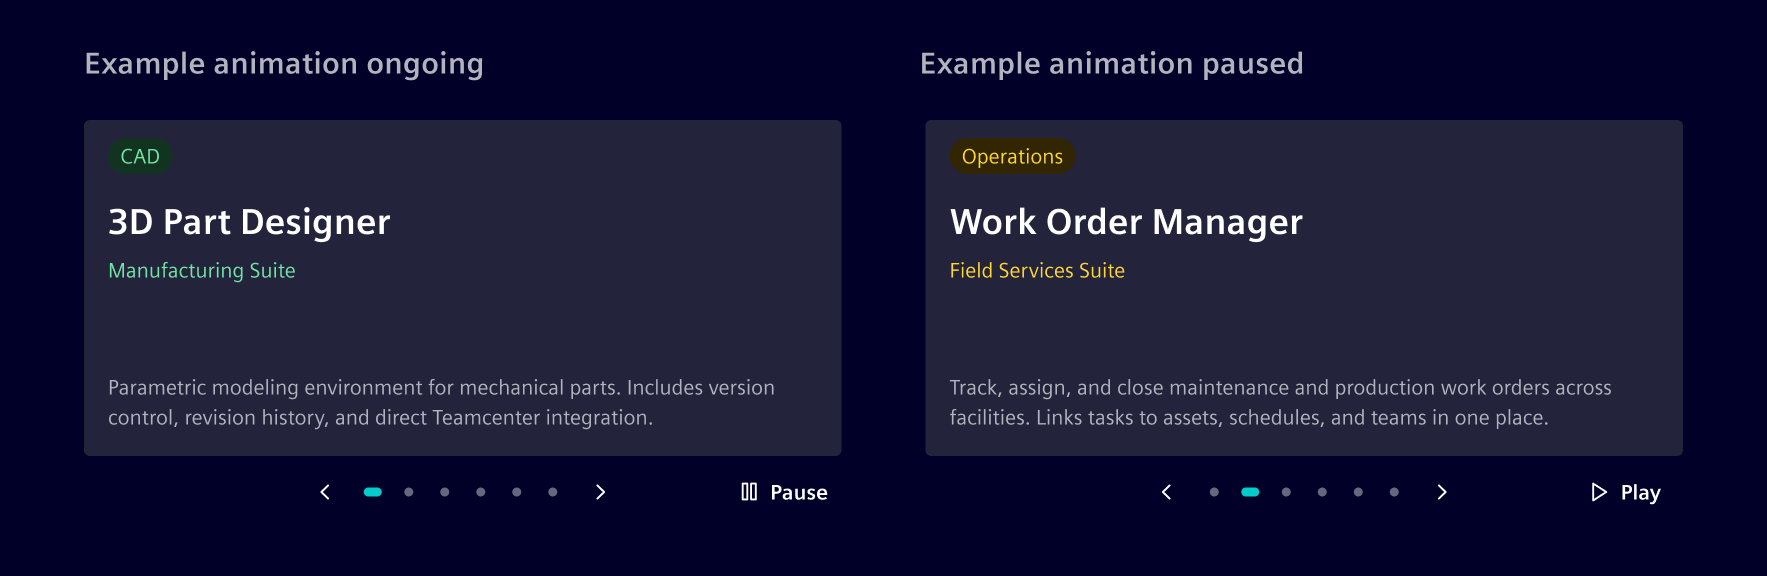
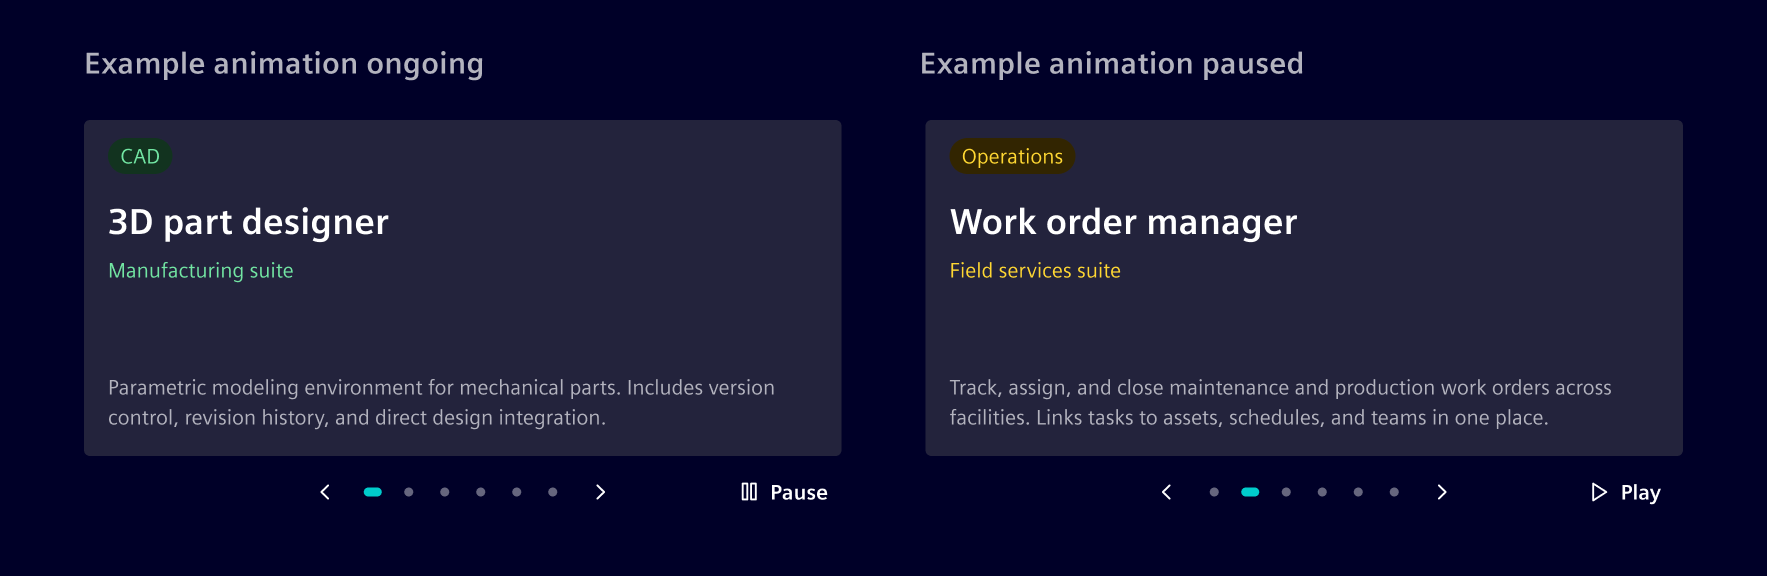
docs(carousel): update ux docs

diff --git a/docs/components/layout-navigation/carousel.md b/docs/components/layout-navigation/carousel.md
@@ -1,7 +1,7 @@
 # Carousel
 
 The **carousel** displays a set of related content in a horizontal row,
-allowing users to cycle through them automatically or with controls.
+supporting to cycle through them automatically or manually by the user with navigation controls.
 
 ## Usage ---
 
@@ -15,7 +15,8 @@ and each item follows a consistent structure (e.g., same card layout, similar co
 - To surface multiple related items.
 - When content can be browsed one page at a time without losing context.
 - When space is limited and showing all items at once would overwhelm the layout.
-- In unattended display contexts (monitors, presentation screens) using slideshow mode with auto-play.
+- In unattended display contexts (e.g., monitors, presentation screens) using
+  slideshow mode with auto-play.
 
 ### Best practices
 
@@ -46,8 +47,8 @@ What goes inside that slot (one card, three cards, a grid, images) can be define
 
 ### Auto-play
 
-When auto-play is enabled, the carousel advances to the next slide after a configurable interval.
-A play/pause button is shown alongside the navigation controls so users can stop or resume at any time.
+When auto-play is enabled, the carousel advances to the next slide after a configurable interval. A play/pause button is shown alongside the navigation controls so
+users can pause or resume at any time.
 
 Auto-play works in both carousel and slideshow modes.
 
